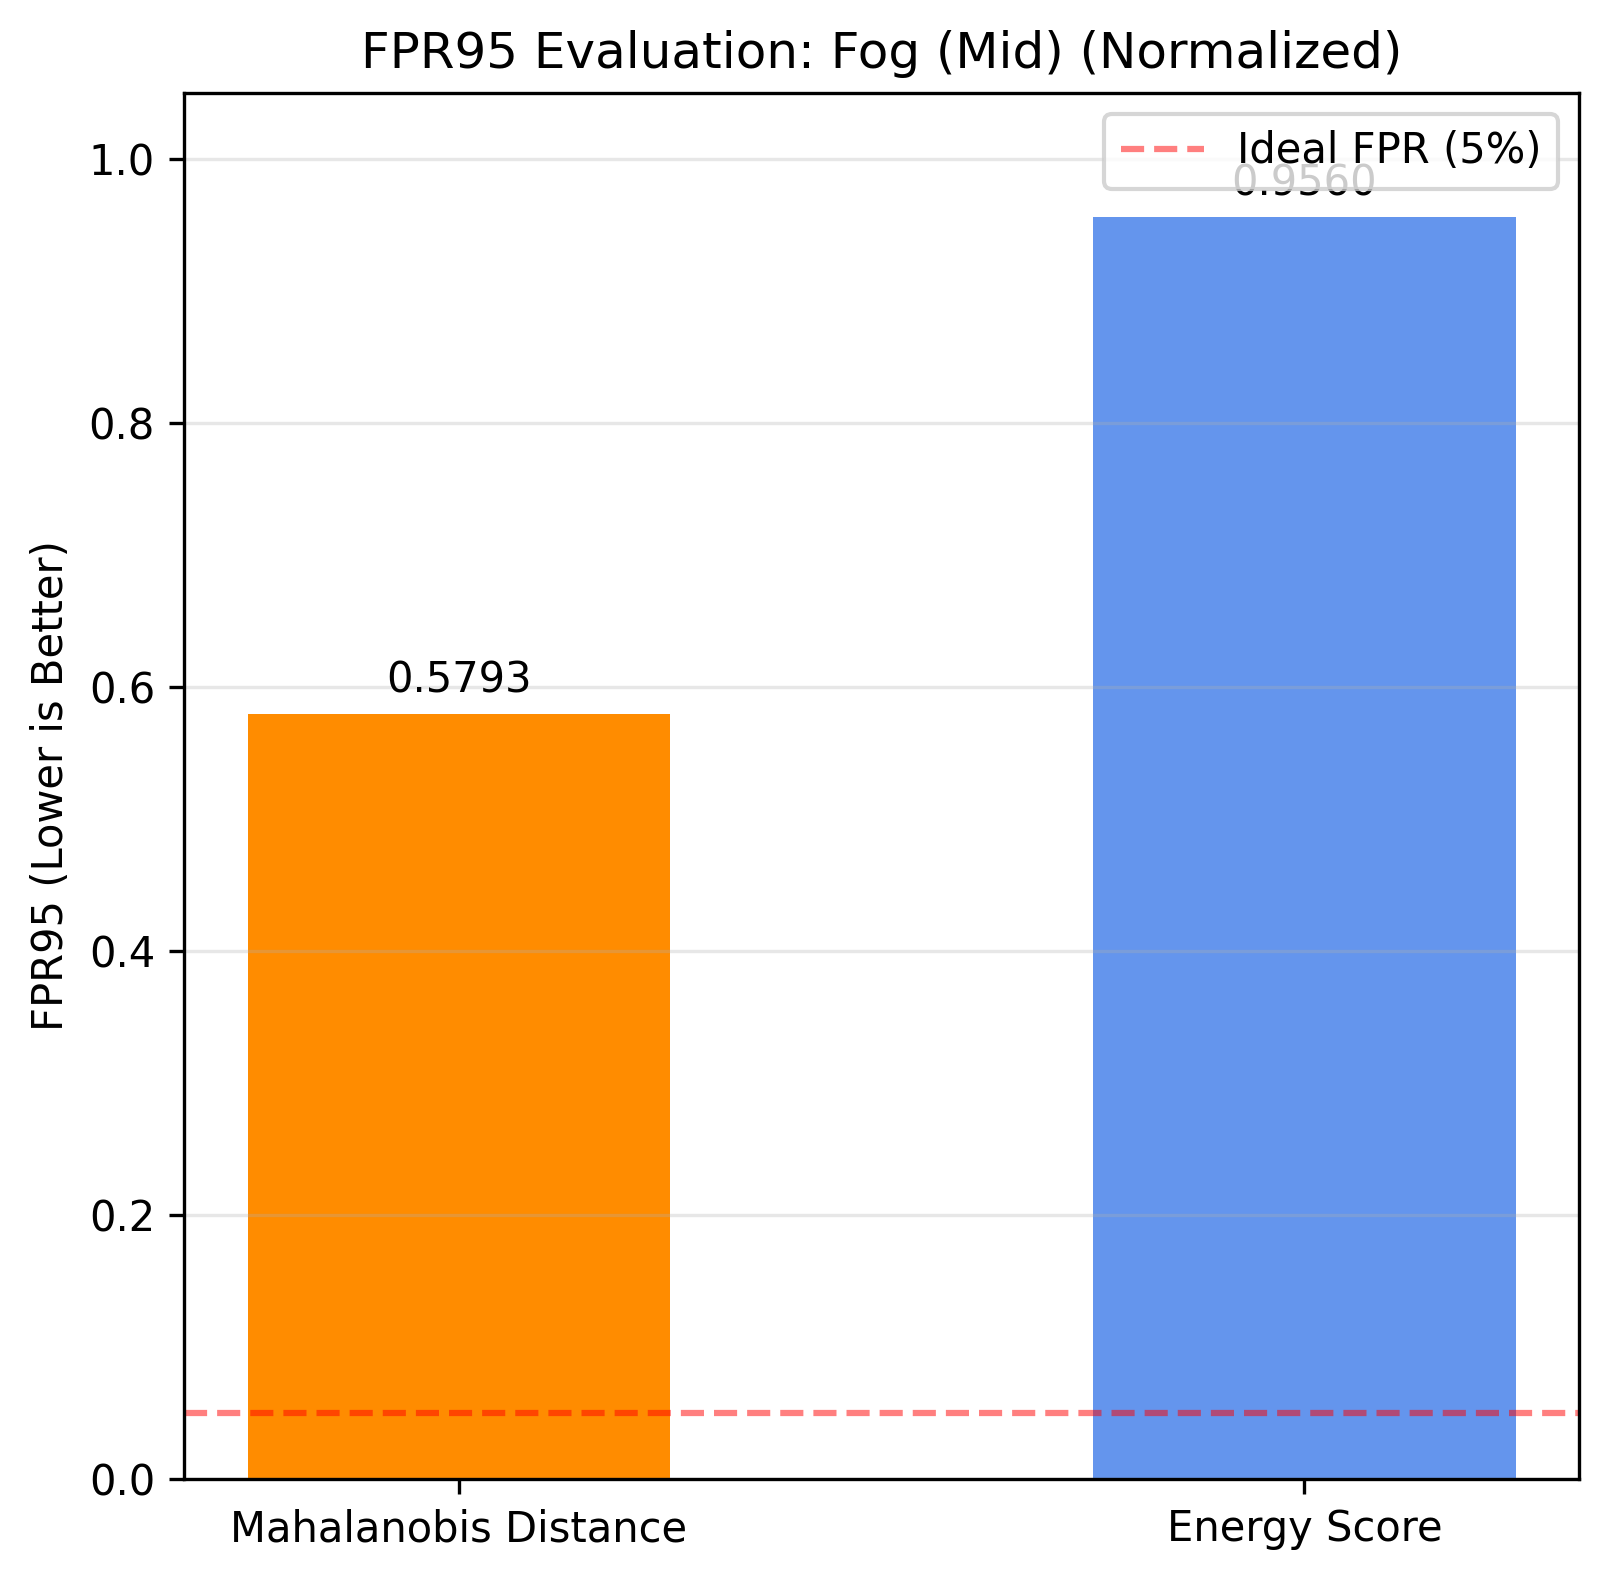
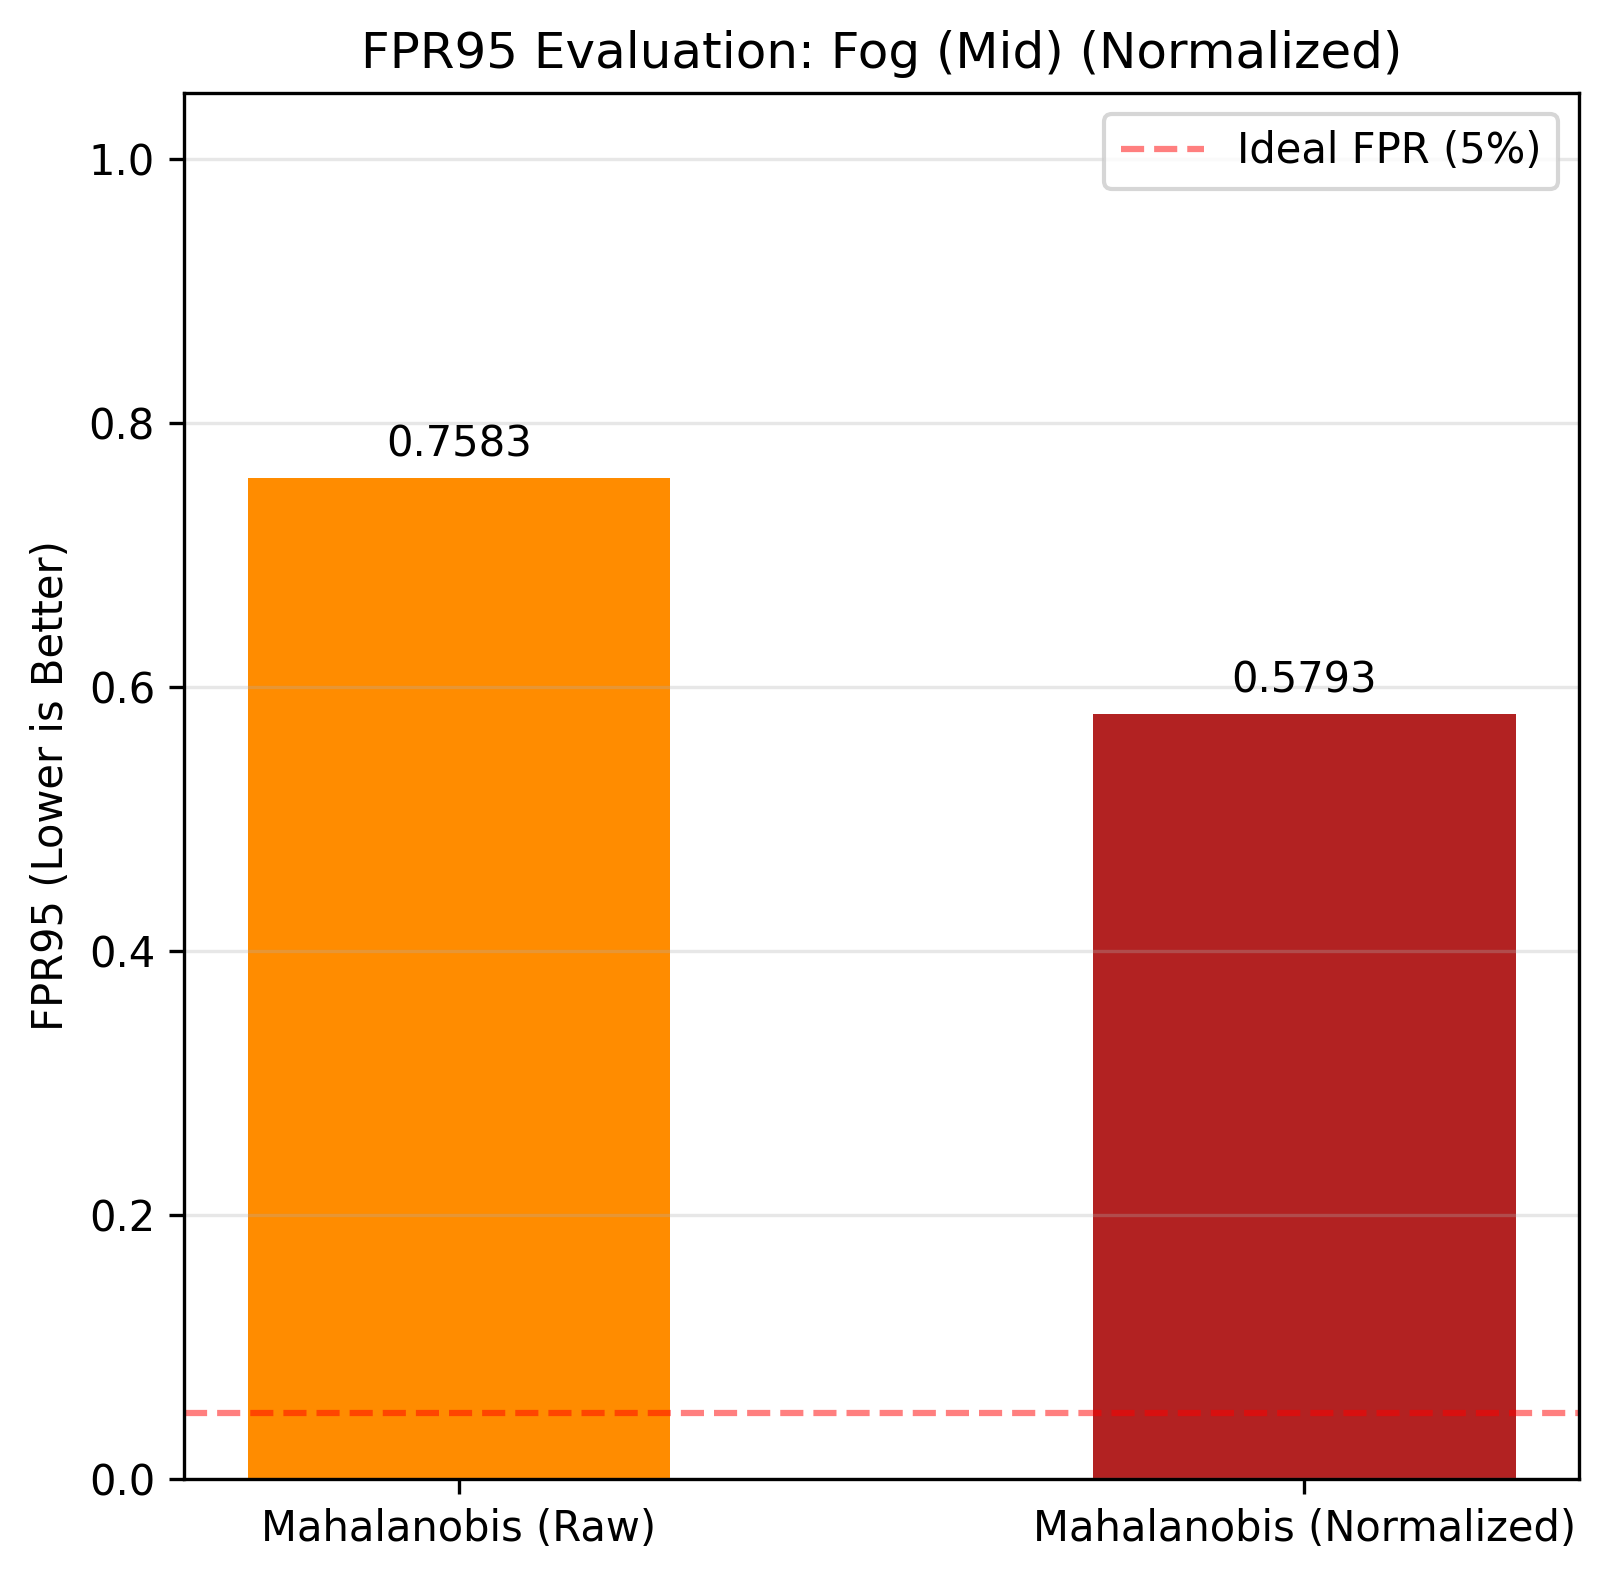
#46 Fix fpr95_evaluator.py to fix comparing

Changed region(s): [[0.6526, 0.093, 0.9944, 0.9924], [0.1554, 0.2481, 0.4351, 0.4652], [0.1554, 0.9304, 0.4351, 0.9924]]

diff --git a/safety_monitor/fpr95_evaluator.py b/safety_monitor/fpr95_evaluator.py
@@ -42,9 +42,15 @@ def plot_fpr95_bar_chart(results: dict, weather: str, severity: str, save_dir: s
     
     metrics = list(results.keys())
     fpr95_values = [results[m] for m in metrics]
-    colors = ['darkorange', 'cornflowerblue']
+    color_map = {
+        'Mahalanobis (Raw)': 'darkorange', 
+        'Mahalanobis (Normalized)': 'firebrick', 
+        'Energy Score': 'cornflowerblue'
+    }
 
-    bars = plt.bar(metrics, fpr95_values, color=colors[:len(metrics)], width=0.5)
+    bar_colors = [color_map.get(m, 'gray') for m in metrics]
+
+    bars = plt.bar(metrics, fpr95_values, color=bar_colors, width=0.5)
 
     plt.ylim([0.0, 1.05])
     plt.ylabel('FPR95 (Lower is Better)')
@@ -72,64 +78,73 @@ if __name__ == "__main__":
     baseline_timestamp = os.environ.get('BASELINE_TIMESTAMP')
     normalization = os.environ.get('NORMALIZATION', 'False').lower() in ('true', '1', 't')
 
-    if not all([weather, severity, timestamp, baseline_timestamp]):
-        print("\n[!] CRITICAL ERROR: Missing Environment Variables.")
-        print("Please run the script like this:")
-        print("BASELINE_TIMESTAMP=20260502_220411 OOD_WEATHER=Fog OOD_SEVERITY=hard OOD_TIMESTAMP=... python safety_monitor/fpr95_evaluator.py\n")
-        sys.exit(1)
-
-    if normalization:
-        id_maha_path = os.path.join(FEATURE_OUTPUT, "nuscenes", "normalized", baseline_timestamp, "mahalanobis_distances.json")
-        ood_maha_path = os.path.join(FEATURE_OUTPUT, weather, severity, "normalized", timestamp, "mahalanobis_distances.json")
-    else:
-        id_maha_path = os.path.join(FEATURE_OUTPUT, "nuscenes", baseline_timestamp, "mahalanobis_distances.json")
-        ood_maha_path = os.path.join(FEATURE_OUTPUT, weather, severity, timestamp, "mahalanobis_distances.json")
-
     id_energy_path = os.path.join(ENERGY_OUTPUT, "nuscenes", baseline_timestamp, "energy_scores.json")
     ood_energy_path = os.path.join(ENERGY_OUTPUT, weather, severity, timestamp, "energy_scores.json")
 
     results = {}
 
+    id_maha_raw_path = os.path.join(FEATURE_OUTPUT, "nuscenes", baseline_timestamp, "mahalanobis_distances.json")
+    ood_maha_raw_path = os.path.join(FEATURE_OUTPUT, weather, severity, timestamp, "mahalanobis_distances.json")
+
     # Evaluate Mahalanobis Distance
-    if os.path.exists(id_maha_path) and os.path.exists(ood_maha_path):
-        id_maha_scores = get_json_scores(id_maha_path)
-        ood_maha_scores = get_json_scores(ood_maha_path)
+    if os.path.exists(id_maha_raw_path) and os.path.exists(ood_maha_raw_path):
+        id_maha_raw_scores = get_json_scores(id_maha_raw_path)
+        ood_maha_raw_scores = get_json_scores(ood_maha_raw_path)
         
-        maha_fpr, maha_tpr = get_auroc_score(id_maha_scores, ood_maha_scores, "Mahalanobis")
-        if maha_fpr is not None:
-            maha_fpr95 = get_fpr95(maha_fpr, maha_tpr)
-
-            results['Mahalanobis Distance'] = maha_fpr95
-
-            print(f"Mahalanobis Distances Loaded -> ID: {len(id_maha_scores)} frames | OOD: {len(ood_maha_scores)} frames")
+        maha_raw_fpr, maha_raw_tpr = get_auroc_score(id_maha_raw_scores, ood_maha_raw_scores, "Mahalanobis (Raw)")
+        if maha_raw_fpr is not None:
+            maha_raw_fpr95 = get_fpr95(maha_raw_fpr, maha_raw_tpr)
+            results['Mahalanobis (Raw)'] = maha_raw_fpr95
+            print(f"Mahalanobis Distances Loaded -> ID: {len(id_maha_raw_scores)} frames | OOD: {len(ood_maha_raw_scores)} frames")
     else:
         print("[!] Missing Mahalanobis JSON files. Skipping metric.")
-        if not os.path.exists(id_maha_path): 
-            print(f"\tMissing ID: {id_maha_path}")
-        if not os.path.exists(ood_maha_path): 
-            print(f"\tMissing OOD: {ood_maha_path}")
+        if not os.path.exists(id_maha_raw_path): 
+            print(f"\tMissing ID: {id_maha_raw_path}")
+        if not os.path.exists(ood_maha_raw_path): 
+            print(f"\tMissing OOD: {ood_maha_raw_path}")
 
-    # Evaluate Energy Score
-    if os.path.exists(id_energy_path) and os.path.exists(ood_energy_path):
-        id_energy_scores = get_json_scores(id_energy_path)
-        ood_energy_scores = get_json_scores(ood_energy_path)
-        
-        energy_fpr, energy_tpr = get_auroc_score(id_energy_scores, ood_energy_scores, "Energy Score")
-        if energy_fpr is not None:
-            energy_fpr95 = get_fpr95(energy_fpr, energy_tpr)
+    if normalization:
+        # Evaluate Mahalanobis (Normalized)
+        id_maha_norm_path = os.path.join(FEATURE_OUTPUT, "nuscenes", "normalized", baseline_timestamp, "mahalanobis_distances.json")
+        ood_maha_norm_path = os.path.join(FEATURE_OUTPUT, weather, severity, "normalized", timestamp, "mahalanobis_distances.json")
 
-            results['Energy Score'] = energy_fpr95
+        if os.path.exists(id_maha_norm_path) and os.path.exists(ood_maha_norm_path):
+            id_maha_norm_scores = get_json_scores(id_maha_norm_path)
+            ood_maha_norm_scores = get_json_scores(ood_maha_norm_path)
+            
+            maha_norm_fpr, maha_norm_tpr = get_auroc_score(id_maha_norm_scores, ood_maha_norm_scores, "Mahalanobis (Normalized)")
+            if maha_norm_fpr is not None:
+                maha_norm_fpr95 = get_fpr95(maha_norm_fpr, maha_norm_tpr)
+                results['Mahalanobis (Normalized)'] = maha_norm_fpr95
+                print(f"Normalized Mahalanobis Loaded -> ID: {len(id_maha_norm_scores)} frames | OOD: {len(ood_maha_norm_scores)} frames")
+        else:
+            print("[!] Missing Mahalanobis JSON files. Skipping metric.")
+            if not os.path.exists(id_maha_norm_path): 
+                print(f"\tMissing ID: {id_maha_norm_path}")
+            if not os.path.exists(ood_maha_norm_path): 
+                print(f"\tMissing OOD: {ood_maha_norm_path}")
 
-            print(f"Energy Scores Loaded -> ID: {len(id_energy_scores)} frames | OOD: {len(ood_energy_scores)} frames")
     else:
-        print("[!] Missing Energy JSON files. Skipping metric.")
-        if not os.path.exists(id_energy_path): 
-            print(f"\tMissing ID: {id_energy_path}")
-        if not os.path.exists(ood_energy_path): 
-            print(f"\tMissing OOD: {ood_energy_path}")
+        # Evaluate Energy Score
+        if os.path.exists(id_energy_path) and os.path.exists(ood_energy_path):
+            id_energy_scores = get_json_scores(id_energy_path)
+            ood_energy_scores = get_json_scores(ood_energy_path)
+            
+            energy_fpr, energy_tpr = get_auroc_score(id_energy_scores, ood_energy_scores, "Energy Score")
+            if energy_fpr is not None:
+                energy_fpr95 = get_fpr95(energy_fpr, energy_tpr)
+
+                results['Energy Score'] = energy_fpr95
+
+                print(f"Energy Scores Loaded -> ID: {len(id_energy_scores)} frames | OOD: {len(ood_energy_scores)} frames")
+        else:
+            print("[!] Missing Energy JSON files. Skipping metric.")
+            if not os.path.exists(id_energy_path): 
+                print(f"\tMissing ID: {id_energy_path}")
+            if not os.path.exists(ood_energy_path): 
+                print(f"\tMissing OOD: {ood_energy_path}")
 
     if results:
-
         if normalization:
             save_dir = os.path.join(FPR95_PLOT_OUTPUT, weather, severity, "normalized", timestamp)
         else:
